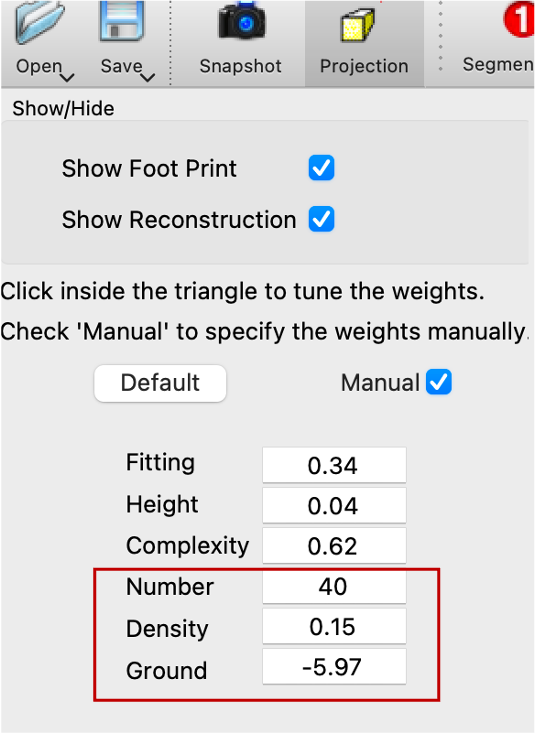
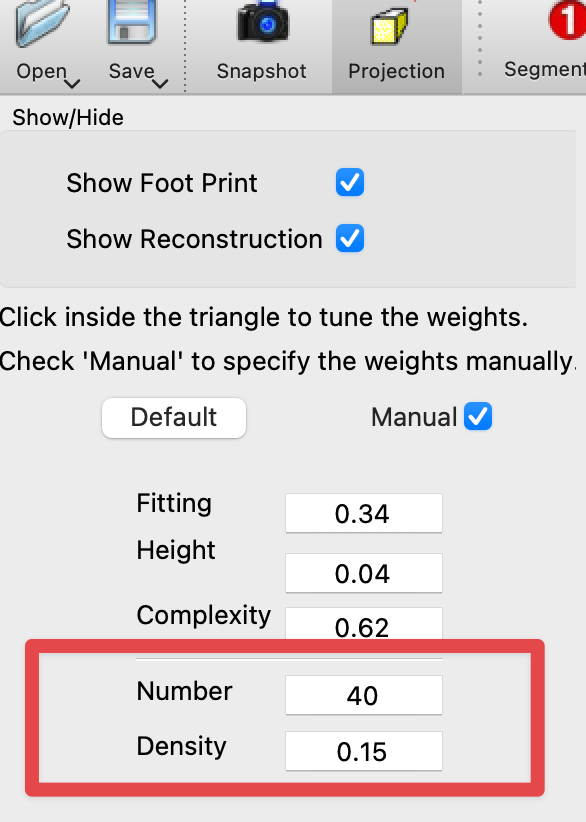
update Parameters.md

diff --git a/Parameters.md b/Parameters.md
@@ -1,6 +1,6 @@
 ### Parameter Tuning 
 
-For LoD2 building reconstruction on custom datasets, adjustments to specific parameters may be necessary. Three primary parameters—**Number**, **Density**, and **Ground**—are key to optimizing the reconstruction process for varying dataset characteristics.
+For LoD2 building reconstruction on custom datasets, adjustments to specific parameters may be necessary. Three primary parameters—**Number** and  **Density** —are key to optimizing the reconstruction process for varying dataset characteristics.
 
 #### 1. **Number** (Plane Detection)
 This parameter defines the granularity of plane detection:
@@ -19,17 +19,22 @@ This parameter defines the granularity of plane detection:
 **Adjustment Guidelines**:
 - If an excessive number of lines are detected in the footprint polygon, increase **Density** to streamline results.
 
-#### 3. **Ground** (Footprint Generation)
-The **Ground** parameter defines the Z-value (height) of the footprint polygon, applicable only if no pre-existing footprint data is available.
+[//]: # (#### 3. **Ground** &#40;Footprint Generation&#41;)
 
-**Adjustment Guidelines**:
-- If you have access to the complete raw point cloud data, including both the roof and ground points, it would be advisable to directly inspect the data and set the ground height based on the actual ground points.
-- If no ground-level data is available, an alternative approach is to experiment with different values. You can start with value of 0.0 and adjust as needed.
+[//]: # (The **Ground** parameter defines the Z-value &#40;height&#41; of the footprint polygon, applicable only if no pre-existing footprint data is available.)
+
+[//]: # ()
+[//]: # (**Adjustment Guidelines**:)
+
+[//]: # (- If you have access to the complete raw point cloud data, including both the roof and ground points, it would be advisable to directly inspect the data and set the ground height based on the actual ground points.)
+
+[//]: # (- If no ground-level data is available, an alternative approach is to experiment with different values. You can start with value of 0.0 and adjust as needed.)
 
 
 #### Parameter Adjustment in GUI Mode
 In GUI mode, parameters can be adjusted interactively:
-- Click **Manual** and adjust **Number**, **Density**, and **Ground** (if necessary).
+- Click **Manual** and adjust **Number** and **Density**.
+
 
 <p align="center"> 
      <img src="./images/GUI_mode.png" width="300"> 
@@ -37,6 +42,5 @@ In GUI mode, parameters can be adjusted interactively:
 
 #### Parameter Adjustment in CLI Mode
 In CLI mode, parameters can be manually modified within the source code as follows:
-- **Number**: Modify in [CLI_Example_1/main.cpp, Line 63](https://github.com/tudelft3d/City3D/tree/main/code/CLI_Example_1/main.cpp#L63) / [CLI_Example_2/main.cpp, Line 59](https://github.com/tudelft3d/City3D/tree/main/code/CLI_Example_2/main.cpp#L59).
-- **Density**: Modify in [CLI_Example_1/main.cpp, Line 64](https://github.com/tudelft3d/City3D/tree/main/code/CLI_Example_1/main.cpp#L64) / [CLI_Example_2/main.cpp, Line 60](https://github.com/tudelft3d/City3D/tree/main/code/CLI_Example_2/main.cpp#L60).
-- **Ground**: Modify in [CLI_Example_2/main.cpp, Line 58](https://github.com/tudelft3d/City3D/tree/main/code/CLI_Example_2/main.cpp#L58), if needed.
+- **Number**: Modify in [code/method/method_global.cpp, Line11](https://github.com/tudelft3d/City3D/tree/main/code/method/method_global.cpp#L11).
+- **Density**: Modify in [code/method/method_global.cpp, Line12](https://github.com/tudelft3d/City3D/tree/main/code/method/method_global.cpp#L12).
